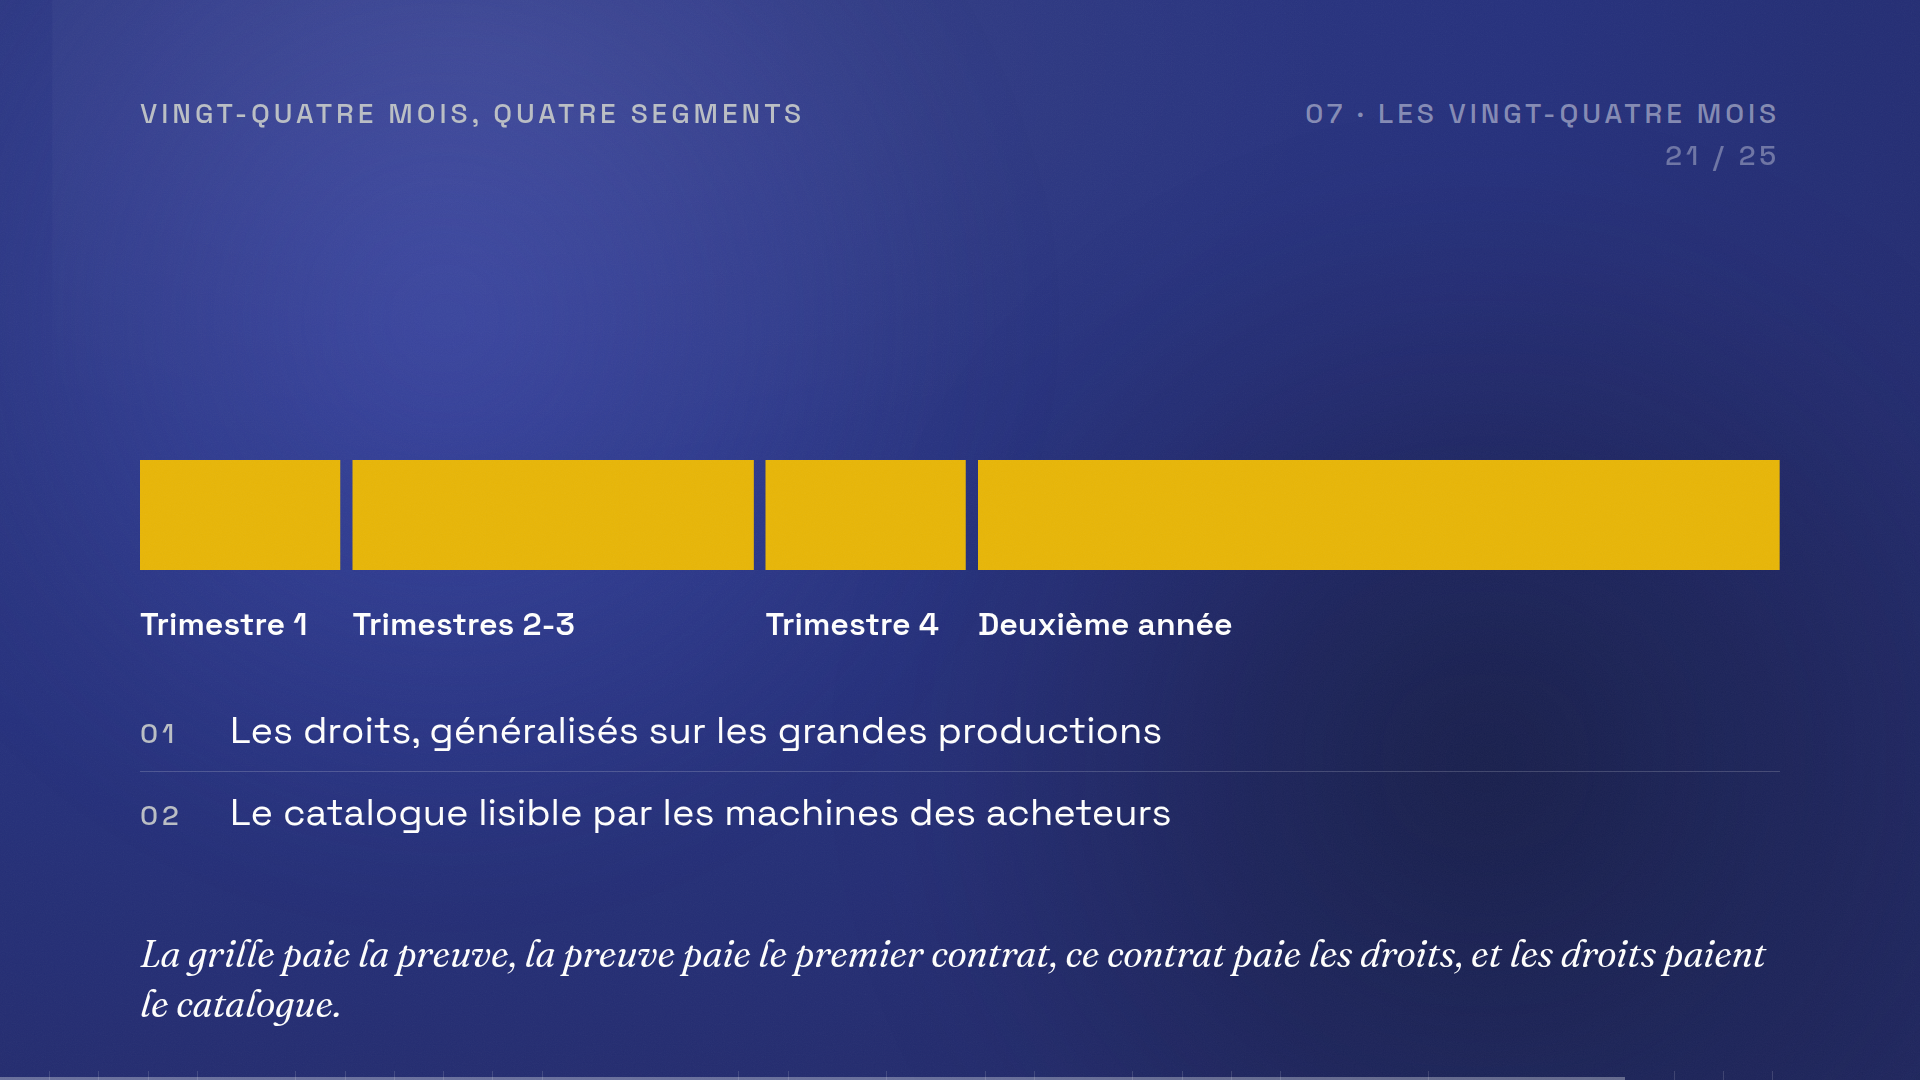
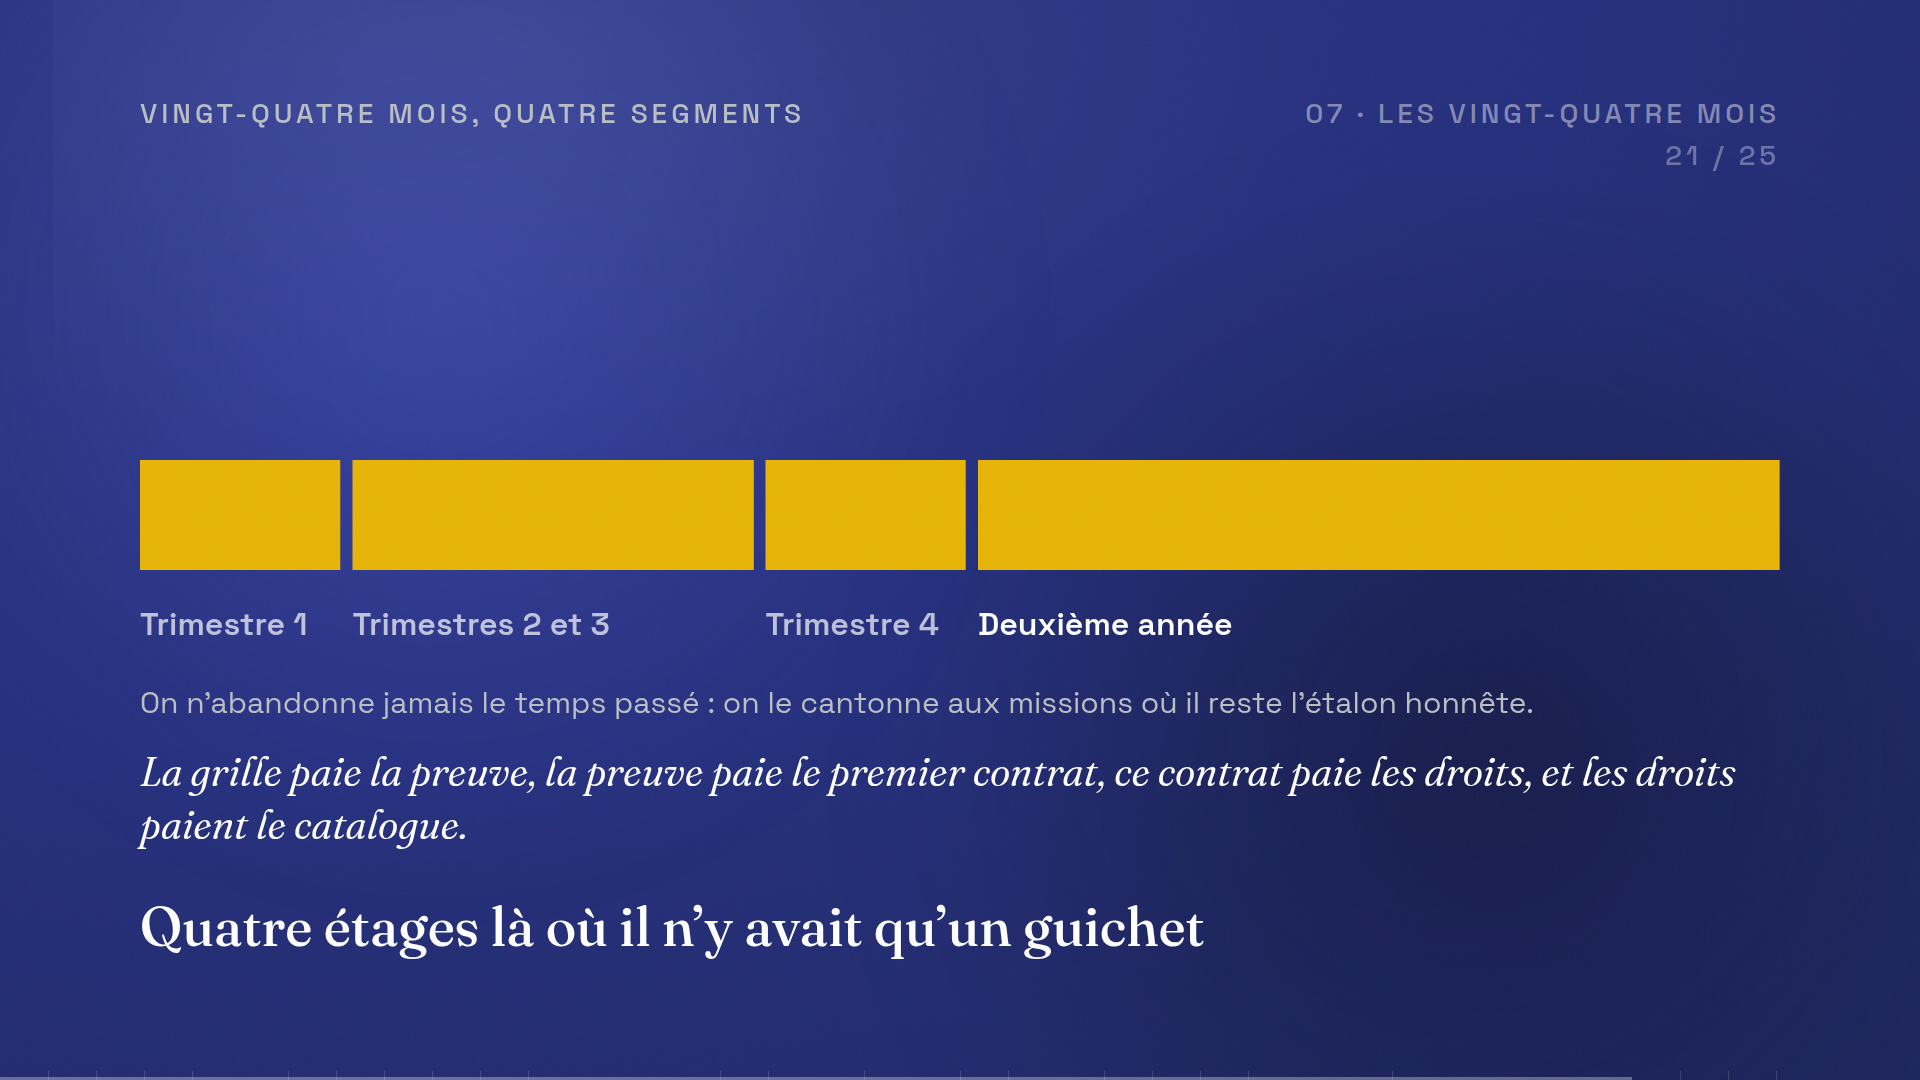
Version définitive : traversée intégrale vérifiée, chevauchement E19 corrigé, insécables
Relecture finale de tout le deck, geste par geste (41 états photographiés
et contrôlés), à l'œil et à la machine :

- Bug attrapé et corrigé : sur le prix étagé, l'ancrage rallongé de la
  création passait sur deux lignes et s'écrasait sur le titre de l'effet.
  Ancrage ramené à une ligne (« une direction créative humaine,
  démontrable »), fidèle à la thèse.
- Le détecteur de la passe de capture attrape désormais les
  chevauchements de textes (mesure des glyphes réels, opacité héritée
  prise en compte) en plus des coupes et des sorties de scène.
- scripts/traversee.mjs (npm run traversee) : rejoue les 40 gestes du
  jour J dans l'ordre et vérifie chaque état intermédiaire, y compris
  les corps sous 28 px. C'est le contrôle qui aurait vu la frise de
  parcours.
- 49 espaces insécables posées devant la ponctuation haute des textes
  affichés (plus de « ? » orphelin sur le verrou de la mesure).
- PDF de secours et captures du dossier coach régénérés.

Claude-Session: https://claude.ai/code/session_01SnfEH4kMonyBy1Bfz9EQu1

diff --git a/README.md b/README.md
@@ -28,7 +28,8 @@ Support de soutenance (4 septembre 2026, EFAP, 30 minutes). Un objet graphique u
 - `npm run dev` : développement.
 - `npm run build` : produit `dist/index.html`, autonome, s'ouvre en double-clic sans réseau.
 - `npm test` : tests du moteur (séquence, chrono, invariants du config).
-- `npm run capture` : captures de vérification de tous les écrans + grille + présentateur (`captures-verification/`).
+- `npm run capture` : captures de vérification de tous les écrans + grille + présentateur (`captures-verification/`), avec détection des textes coupés, hors scène et des chevauchements.
+- `npm run traversee` : rejoue les 40 gestes dans l'ordre du jour J et vérifie chaque état intermédiaire (une image par geste dans `captures-verification/traversee/`).
 - Déploiement continu : chaque push publie sur Netlify (`these-theophile.netlify.app`).
 
 ## Clavier (scène et fenêtre présentateur)
